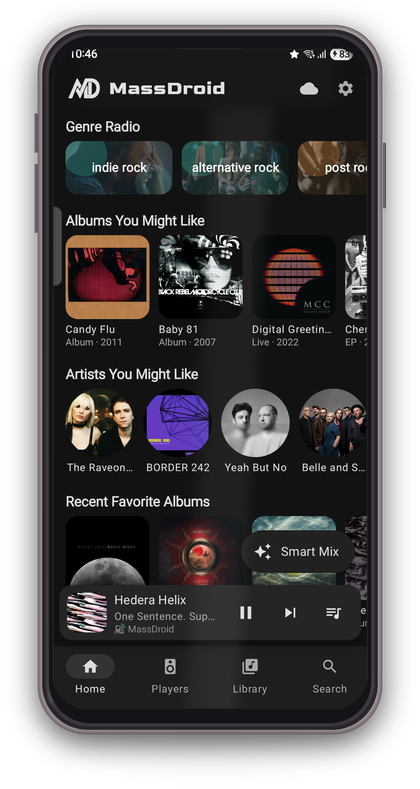
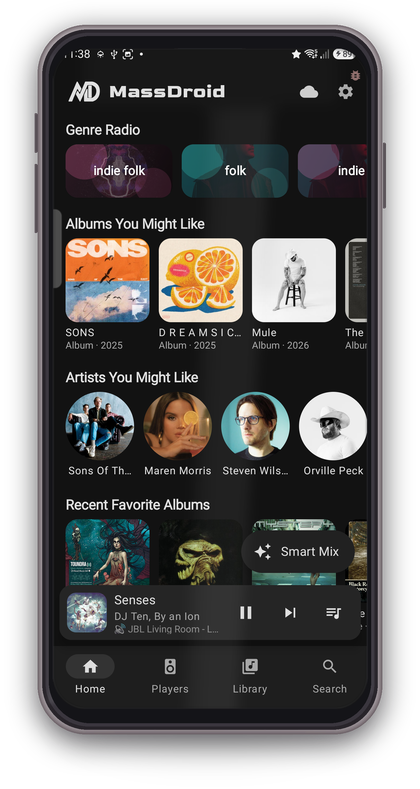
Screenshots: refresh the three that went stale, and show search and Autoplay
Now playing gained the dislike button and its quality badge moved to the centre of
the screen, so the old shot showed five icons where there are now six. The
Recommendations shot still described Variety as rotating "tracks from the same
artists", wording that was corrected because it rotates genre families. Discover has
more suggestions per row than the shot showed.

Search and Autoplay had no shot at all despite being the most visible new things in
2.32.0, so they take the gallery's third row alongside the tuning screen: the search
one shows the type filters and the artist name on album results, the Autoplay one its
five sources with "Global" naming what it resolves to.

Left alone deliberately: library (the year sort is on the Albums tab, not the Artists
tab it shows), artist detail (bio and similar artists changed source, not layout),
players and lyrics (unchanged), and the ATV and Android Auto shots.

diff --git a/README.md b/README.md
@@ -79,6 +79,8 @@ MassDroid is a full-featured Music Assistant companion app built around music ex
   <img src="screenshots/lyrics.png" width="240" />
 </p>
 <p align="center">
+  <img src="screenshots/search.png" width="240" />&nbsp;&nbsp;
+  <img src="screenshots/autoplay.png" width="240" />&nbsp;&nbsp;
   <img src="screenshots/recommendation_tuning.png" width="240" />
 </p>
 
